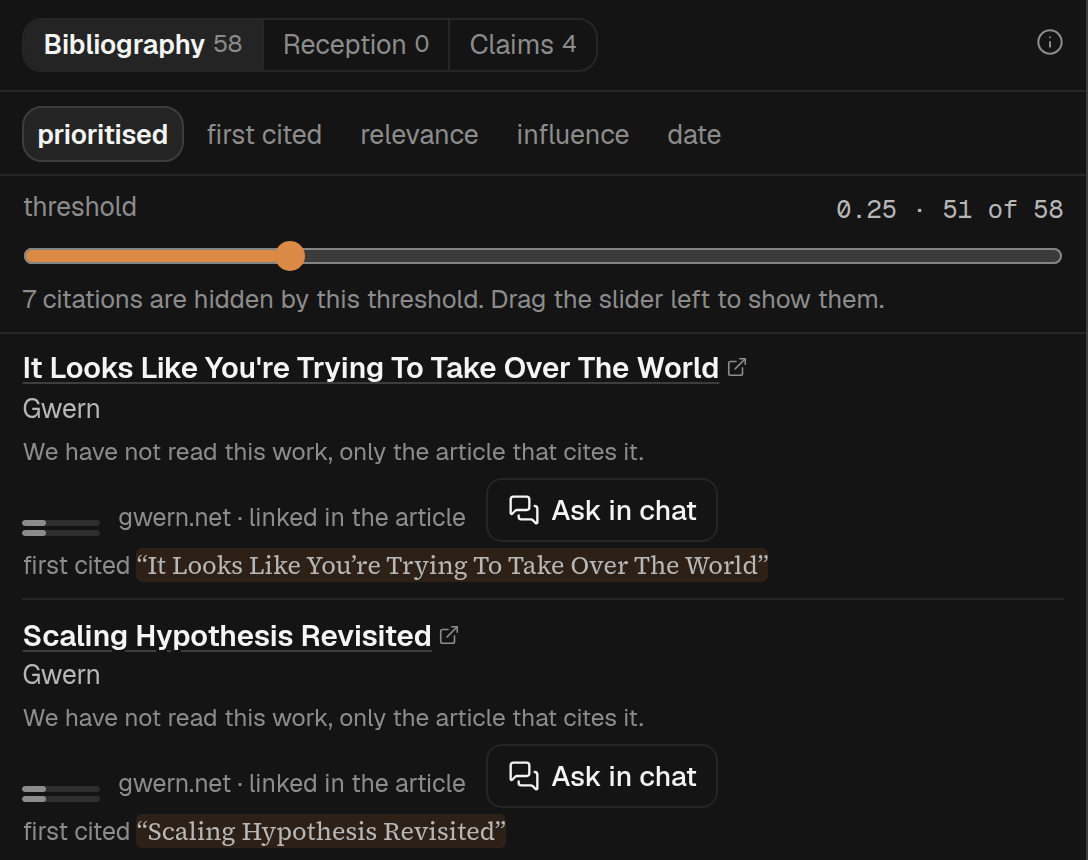
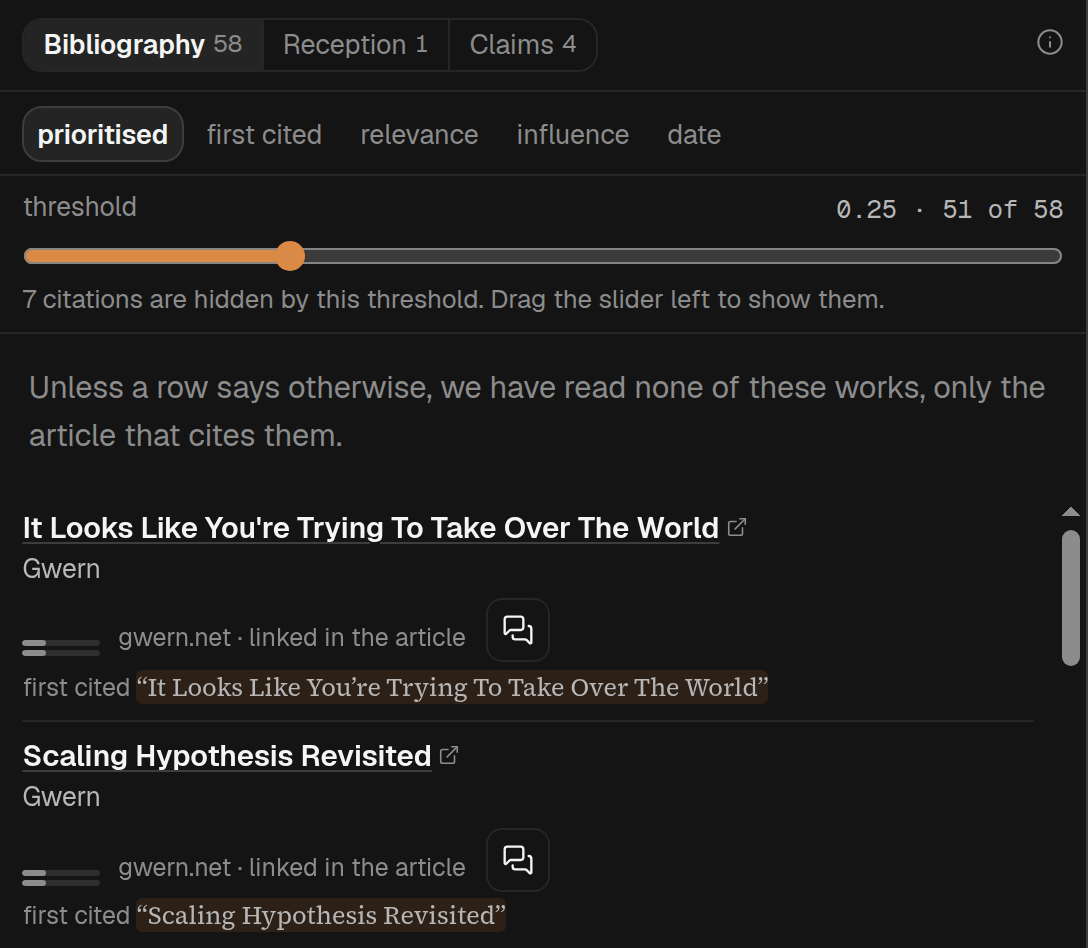
261011c: GPT Sol's code review fixes, the browser pass, the Help screenshot, the note
The once-line shows only while a visible row needs it; an angle's gist is its accessible
description; the shared gist clamp gets overflow hidden; stale comments and the 260929 note
corrected. Help's Bibliography screenshot retaken. Feedback note for spya-rbp55k.

diff --git a/src/web/ReceptionAndClaimsPanel.tsx b/src/web/ReceptionAndClaimsPanel.tsx
@@ -273,7 +273,7 @@ import { RewriteWaiting } from "./RewriteWaiting.js";
 import { TipNote, Tooltip } from "./Tooltip.js";
 import { type CitedInParagraph, workShortName, worksCitedIn } from "./cited-in-paragraph.js";
 import { lensThreads, threadForOrigin } from "./useChatAnchors.js";
-import { OriginChatMark } from "./OriginChat.js";
+import { OriginChatMark, originChatTip } from "./OriginChat.js";
 import { claimFocusKey, type ItemFocus, useLandOnItem } from "./item-focus.js";
 import { useRenderCount } from "./perf.js";
 import type { UseReception } from "./useReception.js";
@@ -1682,7 +1682,8 @@ function Angles({ chats }: { chats: ReceptionAndClaimsChats }) {
                   type="button"
                   className="rcp-angle"
                   aria-label={`${RECEPTION_OPEN_ANGLE_CHAT}: ${chat.origin.lens}`}
-                  title={angleChatTip(chat.turns)}
+                  aria-describedby={chat.gist ? `rcp-angle-gist-${chat.id}` : undefined}
+                  title={originChatTip(RECEPTION_OPEN_ANGLE_CHAT, chat.turns, chat.gist ? "gist" : "none")}
                   onClick={() => chats.onOpen(chat.id)}
                 >
                   <MessagesSquare size={12} aria-hidden="true" />
@@ -1696,7 +1697,11 @@ function Angles({ chats }: { chats: ReceptionAndClaimsChats }) {
                       shows it (OriginChat.tsx § OriginChatMark; Greg,
                       2026-10-10, spya-rbp55k: *"true for anywhere where we
                       offer Ask in Chat"*, plan 261011c). The model's words. */}
-                  {chat.gist && <span className="rcp-angle-gist origin-chat-gist voice-ai">{chat.gist}</span>}
+                  {chat.gist && (
+                    <span id={`rcp-angle-gist-${chat.id}`} className="rcp-angle-gist origin-chat-gist voice-ai">
+                      {chat.gist}
+                    </span>
+                  )}
                 </button>
               </li>
             ))}
@@ -1710,11 +1715,6 @@ function Angles({ chats }: { chats: ReceptionAndClaimsChats }) {
       )}
     </div>
   );
-}
-
-/** A line's tooltip: what a press does, and what the number is. */
-function angleChatTip(turns: number): string {
-  return `${RECEPTION_OPEN_ANGLE_CHAT}. ${turns} ${turns === 1 ? "question" : "questions"} so far.`;
 }
 
 /** How many citing papers are on screen before *Show all*. */

diff --git a/tests/reception-lens.test.tsx b/tests/reception-lens.test.tsx
@@ -16,6 +16,7 @@
  * The whole trip into Chat and back is tests/reception-lens-in-chat.test.tsx.
  * Fixtures are tests/sources-claims-chat.test.tsx's, cut down.
  */
+import { readFileSync } from "node:fs";
 import { act, createElement } from "react";
 import { createRoot, type Root } from "react-dom/client";
 import { afterEach, beforeEach, describe, expect, it } from "vitest";
@@ -25,9 +26,14 @@ import type { BlockId, ClaimReceptionRow, Reception, ReceptionCounts, ThreadSumm
 import type { PublicReception } from "../src/public-types.js";
 import type { UseReception } from "../src/web/useReception.js";
 
-const { ReceptionAndClaimsPanel, RECEPTION_LENS_LABEL, RECEPTION_LENS_SEND, RECEPTION_ANGLES_HEAD, RECEPTION_ANGLES_SHOWN } = await import(
-  "../src/web/ReceptionAndClaimsPanel.js"
-);
+const {
+  ReceptionAndClaimsPanel,
+  RECEPTION_LENS_LABEL,
+  RECEPTION_LENS_SEND,
+  RECEPTION_ANGLES_HEAD,
+  RECEPTION_ANGLES_SHOWN,
+  RECEPTION_OPEN_ANGLE_CHAT,
+} = await import("../src/web/ReceptionAndClaimsPanel.js");
 
 const BLOCK = "spya-k3m9qt" as BlockId;
 const CLAIM = "a starter needs cool water";
@@ -358,6 +364,14 @@ describe("Your angles", () => {
     const line = gisted?.querySelector(".rcp-angle-gist");
     expect(line?.textContent).toBe(gist);
     expect(line?.classList.contains("voice-ai")).toBe(true);
+    expect(gisted?.getAttribute("aria-label")).toBe(`${RECEPTION_OPEN_ANGLE_CHAT}: ${LENS.lens}`);
+    expect(gisted?.getAttribute("aria-describedby")).toBe(line?.id);
+    expect(gisted?.title).toMatch(/AI's summary/);
+    expect(gisted?.title).toMatch(/1 question so far/);
+    /* The shared gist clamp has to clip as well as count lines. Without this,
+       a long angle summary can paint into the next row in a narrow band. */
+    const css = readFileSync("src/web/styles/origin-chat.css", "utf8");
+    expect(css).toMatch(/\.origin-chat-gist\s*\{[^}]*overflow:\s*hidden;/s);
   });
 
   it("opens that chat on a press, and hands nothing over", () => {

diff --git a/src/feedback-endings.generated.ts b/src/feedback-endings.generated.ts
@@ -345,6 +345,7 @@ export const FEEDBACK_NOTE_ENDINGS: Readonly<Record<string, FeedbackEnding>> = {
   "spya-r9nbkt": "shipped",
   "spya-r9w4mx": "shipped",
   "spya-ra5fuz": "shipped",
+  "spya-rbp55k": "shipped",
   "spya-rbxrgc": "shipped",
   "spya-rczgjb": "shipped",
   "spya-ref23e": "shipped",
@@ -603,6 +604,7 @@ export const FEEDBACK_NOTE_COMMENTS: Readonly<Record<string, string>> = {
   "spya-qpgvq9": "spya-x0rfs2: the bar is fixed; the quieter open stop Greg chose in q-u04sye is on dev as an experiment",
   "spya-qtk3q2": "Both sentences rewritten to say what happened, and arXiv papers now find their DOI, so Attention gets its Cited by list. Typing a DOI in, or searching by title without one, is a question to you (q-hbg65m).",
   "spya-qxufp9": "Declined: one model call writes the article's tree and these summaries together, and Structure, the shelf and hover cards need the tree as soon as the article opens. Deferring them means splitting that stage.",
+  "spya-rbp55k": "The line is said once above the list now. A chat's summary shows wherever Ask in chat has an item to put it on; Summary's paragraph and Quotes, Timeline and FAQ are still queued.",
   "spya-s6qhzv": "The guide greets you in the chat, takes Live, has a Guide row in the bar, and offers to save your reason and About you on your press. Since then it also offers buttons for a private link, sharing and archiving (261009u).",
   "spya-sbj3yk": "Both sentences rewritten to say what happened, and arXiv papers now find their DOI, so Attention gets its Cited by list. Typing a DOI in, or searching by title without one, is a question to you (q-hbg65m).",
   "spya-sshjd2": "Shipped: your Earlier tab now sorts reports into Open, Needs a decision, Set aside and Shipped, numbers each one, and lets you answer my questions in place.",

diff --git a/tests/bibliography-panel.test.tsx b/tests/bibliography-panel.test.tsx
@@ -1164,6 +1164,31 @@ describe("what a row says we have read", () => {
     expect(CITE_WHY_LABEL).toMatch(/article/);
   });
 
+  it("omits the list-wide default when no visible row needs it", async () => {
+    /* A saved threshold can sit above every scored work. There is then no row
+       for the sentence to qualify. */
+    await draw(owner(), 1);
+    expect(host.querySelectorAll(".cite-item")).toHaveLength(0);
+    expect(host.querySelector(".cite-list-read")).toBeNull();
+
+    /* Nor does it add a vacuous default to a list whose every row has its own,
+       more specific line. */
+    await draw(owner({ bibliography: artefact([FOUND]) }), null, undefined, "document");
+    expect(row(FOUND.id).querySelector(".cite-read")?.textContent).toBe(CITE_PAGE_FOUND);
+    expect(host.querySelector(".cite-list-read")).toBeNull();
+  });
+
+  it("draws the default for a stale ready list, but not while loading or for an empty answer", async () => {
+    await draw(owner({ stale: true }));
+    expect(host.querySelector(".cite-list-read")?.textContent).toBe(CITE_LIST_NOT_READ);
+
+    await draw(owner({ status: "loading" }));
+    expect(host.querySelector(".cite-list-read")).toBeNull();
+
+    await draw(owner({ bibliography: artefact([]) }));
+    expect(host.querySelector(".cite-list-read")).toBeNull();
+  });
+
   it("shows why, labelled as the article's, once something was checked against it", async () => {
     /* The verdict says "supports what the article uses it for", and a kept
        Dig deeper answer opens "Does it back the claim?": each needs the claim

diff --git a/src/web/BibliographyPanel.tsx b/src/web/BibliographyPanel.tsx
@@ -924,6 +924,12 @@ export function BibliographyPanel({
      button and the slider's presence cannot disagree. */
   const order = effectiveOrder(all, chosenOrder);
   const shown = orderWorks(all, order, bar);
+  /* The list-wide default has work to do only when a row on screen relies on
+     it. A saved threshold can hide every row, and a list can consist entirely
+     of rows whose own line says what was found or read; drawing the default in
+     either case would leave another true but vacuous warning (plan 261011c
+     code review). */
+  const showListReadNote = shown.some((work) => readNoteOf(work) === null);
   /* A visitor's list arrived with the page, so it is ready by construction. */
   const ready = bibliography !== null && (owner === null || owner.status === "ready");
   /* A forced run has finished and its result is not here yet: the forced
@@ -1092,8 +1098,9 @@ export function BibliographyPanel({
 
           {all.length === 0 && <p className="gloss-quiet">{BIBLIOGRAPHY_NONE}</p>}
 
-          {/* Once, not on every row (plan 261011c). */}
-          {all.length > 0 && <p className="gloss-quiet cite-list-read">{CITE_LIST_NOT_READ}</p>}
+          {/* Once, not on every row, and only while a visible row needs the
+              default (plan 261011c). */}
+          {showListReadNote && <p className="gloss-quiet cite-list-read">{CITE_LIST_NOT_READ}</p>}
 
           {all.length > 0 && (
             <div className="tl-scroll">

diff --git a/src/web/help/help-images.ts b/src/web/help/help-images.ts
@@ -276,11 +276,11 @@ export const HELP_IMAGES: Readonly<Record<string, HelpImage>> = {
   "mode-bibliography.png": {
     src: modeBibliographyPng,
     w: 1088,
-    h: 860,
-    shows: "?mode=sources (Bibliography, prioritised), the chip row and the band alone; clip x12 y44 w544 h430 CSS, cropped after the second work.",
+    h: 948,
+    shows: "?mode=sources (Bibliography, prioritised), the chip row and the band alone, with the one line above the list (we have read none of these works, said once) and the first two works; clip x12 y44 w544 h474 CSS, ending at the second work's bottom rule.",
     article: "The Scaling Hypothesis (scaling-hypothesis)",
     window: "1440×900 at 2×",
-    taken: "2026-10-09",
+    taken: "2026-10-11",
   },
   "mode-skim.png": {
     src: modeSkimPng,

diff --git a/src/web/styles/prose-hover-card.css b/src/web/styles/prose-hover-card.css
@@ -523,9 +523,9 @@
     padding: 0;
   }
 }
-/* Under `why`: we have not read the work, or found only a page matching its
-   title. The band's sentence (BibliographyPanel.tsx § readNoteOf), as quiet as the
-   foot's facts. Plan 260929g stage 1. */
+/* Under `why`: what differs from the band's list-wide default — a page found,
+   an extract read, or the work read. A plain unread card has no line or wrapper
+   (BibliographyPanel.tsx § readNoteOf; plan 261011c). */
 .prose-card-cite-read {
   margin: 0.2rem 0 0;
   color: var(--ink-faint);

diff --git a/src/web/styles/bibliography.css b/src/web/styles/bibliography.css
@@ -92,8 +92,9 @@
   font-size: 0.77rem;
 }
 
-/* What we have read of the work — nothing, or a page matching its title. Every
-   row has it, so it is as quiet as the line under it. Plan 260929g stage 1. */
+/* What differs from the list-wide default about what we have read: a page
+   matching the title, a search extract, or the work itself. Plain unread rows
+   have no line (plan 261011c). */
 .cite-read {
   margin: 0.15rem 0 0;
   color: var(--ink-faint);

diff --git a/src/web/styles/origin-chat.css b/src/web/styles/origin-chat.css
@@ -62,5 +62,6 @@
   -webkit-box-orient: vertical;
   -webkit-line-clamp: 2;
   line-clamp: 2;
+  overflow: hidden;
   white-space: normal;
 }

diff --git a/docs/plans/261011c-bibliography-says-we-have-not-read-the-works-once.md b/docs/plans/261011c-bibliography-says-we-have-not-read-the-works-once.md
@@ -65,7 +65,8 @@ author.
   say something different from row to row, and they stand beside words that are about the work.
 - **Said once, above the list**: *Unless a row says otherwise, we have read none of these works,
   only the article that cites them.* A quiet line (`gloss-quiet`) under the order row and the
-  threshold, only when the list has works. Visitors see it too; it is true of their view.
+  threshold, only when a visible row relies on that default. It is absent when the threshold hides
+  every row, or every visible row carries its own more-specific line. Visitors see it too.
 - **The hover card says nothing in that case.** It opens one work from the prose, and the provenance
   it does carry is the entry's own line (*copied from the article, not from the work*) when there is
   an entry. A card has no list to say it once above. The simpler option passed over is keeping the
@@ -84,7 +85,8 @@ Red first, in `tests/bibliography-panel.test.tsx`: a row nobody looked up has no
 the band has the once-line exactly once; a row with a lookup or a found page still has its line.
 `tests/citation-hover-card.test.tsx`: the card for an unread work draws no read line.
 `tests/public-network-trace.test.tsx`: the visitor's band still says, once, that we have not read
-the works.
+the works. The panel suite also covers loading, stale and empty states, an all-hidden threshold,
+and a list whose every row has its own line.
 
 ## Review
 
@@ -96,3 +98,14 @@ GPT Sol on this plan (read-only), and on the code.
   Reception's angles and a comment's chat did not show the gist, so the part-2 claim was overstated:
   built here. P3: `string | null` does not force a check in JSX, and the card's wrapper would be
   left empty: both handled, and a test for the wrapper. P4: the Help copy and screenshot: updated.
+- **Code review** (Codex, fixes applied): C1: the list-wide line was still drawn when the threshold
+  hid every row or every visible row had its own line; it now follows visible rows that need the
+  default, with state tests. C2: an angle's `aria-label` hid its gist from assistive technology;
+  the gist is now its description and the tooltip identifies the AI summary. C3: the shared
+  two-line gist clamp lacked `overflow: hidden`; added and pinned. C4: current CSS comments and the
+  260929 feedback record still stated the old per-row behaviour; corrected with history preserved.
+- **Browser** (Sonnet subagent, Playwright on the box, `scaling-hypothesis`, 1440×900 and 390px):
+  the line once above the list, none on plain rows, a looked-up row keeps its own; no read line
+  and no empty part on an unread work's hover card (`261011c-shot-1`); no console errors. The
+  gist on angles and comments was **not** seen in a browser: no local chat of either kind has a
+  gist yet, so those rest on their unit tests. Help's `mode-bibliography.png` retaken.

diff --git a/docs/user-feedback/261010_0807-bibliography-says-once-we-have-not-read-the-works.md b/docs/user-feedback/261010_0807-bibliography-says-once-we-have-not-read-the-works.md
@@ -1,0 +1,37 @@
+---
+reports: spya-rbp55k
+ending: shipped
+comment: The line is said once above the list now. A chat's summary shows wherever Ask in chat has an item to put it on; Summary's paragraph and Quotes, Timeline and FAQ are still queued.
+---
+# Bibliography says once that we have not read the works
+
+Report `spya-rbp55k` (#547, SPIDERYARN-READING2-GW), Greg (admin, provenance proved by
+`feedback-reporter.ts`), 2026-10-10 08:07 UTC, a suggestion filed from Sources › Bibliography on
+`lawrence-kuhn-2024-a-landscape-of-consciousness-spya-hs82mz`, build `29220e7d`:
+
+> In bibliography mode, it warms "we have not read this work, just the piece that cites it" over
+> and over and over again. It doesn't really add much. Since we've got rid of the vacuous summary
+> phrase, so maybe we can get rid of that warming as well.
+>
+> I think in a previous feedback report, I'd requested that if I click Ask in Chat and get a nice
+> response, that that should auto-generate a short summary that shows up in the citation entry, and
+> that that should be true for anywhere where we offer Ask in Chat.
+
+**Shipped**, to `dev`; plan [261011c](../plans/261011c-bibliography-says-we-have-not-read-the-works-once.md).
+
+- **The line is said once**, above the list: *Unless a row says otherwise, we have read none of
+  these works, only the article that cites them.* A row, or a citation's hover card, says something
+  about reading only when it differs: a page found for it, a search extract read, the paper read.
+- **The chat's summary in the entry** was built by the earlier report's work
+  ([261010s](../plans/261010s-ask-in-chat-resumes-its-thread-and-becomes-an-icon.md),
+  `a350ae8eb`), ten hours after this report was filed, and is in production: Glossary,
+  Bibliography, Ideas and Claims show the chat's gist in the button's place. GPT Sol found two
+  places it had not reached, built here: Reception's *Your angles*, and a comment that started a
+  chat.
+- **Still queued**: Summary's paragraph button stores nothing to find its chat by (`qi-vj7p4sbh`,
+  which this report answers yes to), and Quotes, Timeline and FAQ have no Ask in chat yet
+  (`qi-bd6h2fnd`). Both need a migration on the same database checks, so they land one at a time.
+
+Checks: red-first tests for the row, the band's one line, the hover card, the angle's gist and the
+comment's gist; GPT Sol's plan and code reviews; a browser pass on the box, and the Help page's
+Bibliography screenshot retaken.

diff --git a/src/web/help/pages/modes/sources.md b/src/web/help/pages/modes/sources.md
@@ -34,10 +34,10 @@ for that.
 
 **Bibliography**
 
-- A line above the list says we have read none of the works, only the article that cites them. A
-  row says more only when that changes: a page found for it, a search extract read, or the paper
-  itself read. The sentence on what the piece uses a work for is written from the article, not from
-  the cited work.
+- When a visible row has no more-specific reading line, one line above the list says we have read
+  none of those works, only the article that cites them. A row says more only when that changes: a
+  page found for it, a search extract read, or the paper itself read. The sentence on what the piece
+  uses a work for is written from the article, not from the cited work.
 - Two small bars: **relevance** to this piece, and **influence** in its field. Influence is the
   model’s memory of the work, not a citation count. New lists give a number only when the model is
   confident it knows the work; a low number then means a work it knows and thinks minor. If
